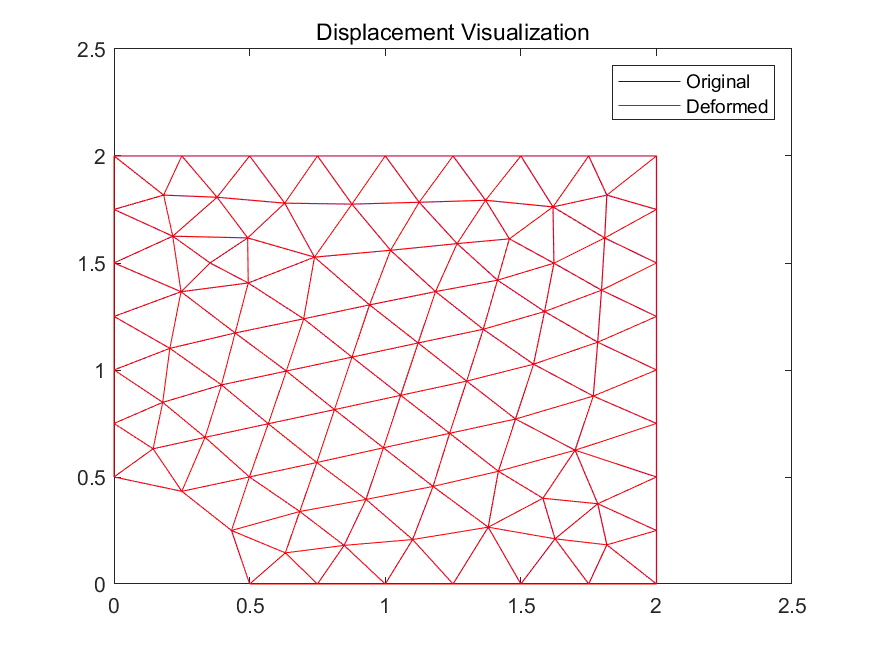
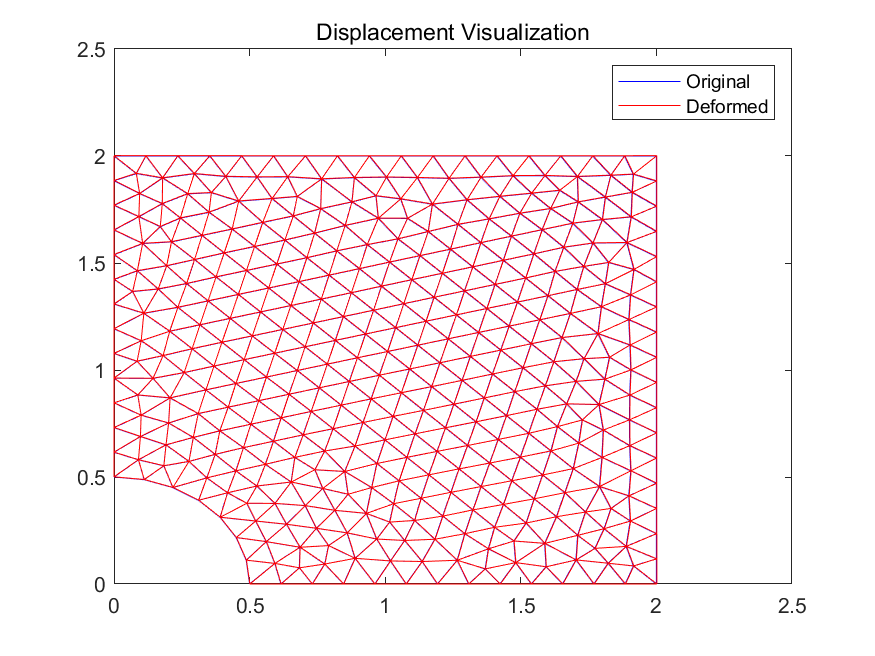
误差计算有问题，重新写函数

Changed region(s): [[0.1234, 0.2134, 0.7714, 0.8841]]

diff --git a/codes/Final project/computeError.m b/codes/Final project/computeError.m
@@ -4,39 +4,52 @@ function [L2Error, H1Error] = computeError(coords, ien, stressNumerical, stressA
 %ien: 单元节点连接关系矩阵
 %stressNumerical: 数值计算得到的应力
 %stressAnalytical: 解析解得到的应力
-
-    %初始化误差
+    % 初始化误差
     L2Error = 0;
     H1Error = 0;
-    totalArea = 0;
-
-    % 对每个单元进行循环
+    gradError = 0;    % 梯度误差项
+    totalArea = 0;    % 总面积
+    
+    % 遍历所有单元
     for e = 1:size(ien, 1)
-        % 获得单元节点
+        % 获取单元节点
         nodes = ien(e, :);
         elementCoords = coords(nodes, :);
-
-        % 获取数值解和解析解
-        sigmaNumerical = stressNumerical(e, :); % 单元数值应力
-        sigmaAnalytical = mean(stressAnalytical(nodes, :), 1); % 单元平均解析应力
         
-        % 计算单元雅可比行列式（用于面积计算）:
-        [~, detJ] = computeBMatrix(elementCoords);
-
-        % 计算L2误差： ||σ - σ_exact||²
-        diff = sigmaNumerical - sigmaAnalytical; 
-        L2Error = L2Error + detJ * (diff * diff'); % 积分过程
-
-        % 计算H1误差（梯度差）
-        gradDiff = diff; % 这里是简化处理,实际应该计算梯度差
-        H1Error = H1Error + detJ * (gradDiff * gradDiff'); % 每个单元对H1范数的贡献
-
-        % 累加单元面积
+        % 获取该单元的应力值
+        sigmaNum = stressNumerical(e, :);         % [σxx, σyy, τxy]
+        sigmaAnalytical = mean(stressAnalytical(nodes, :), 1);  % 取节点平均值作为解析值
+        
+        % 计算单元的B矩阵和雅可比行列式
+        [B, detJ] = computeBMatrix(elementCoords);
+        
+        % 计算应力差值用于L2误差
+        stressDiff = sigmaNum - sigmaAnalytical;
+        
+        % 计算该单元对L2误差的贡献
+        L2Error = L2Error + detJ * (stressDiff * stressDiff');
+        
+        % 计算应力梯度用于H1误差
+        % 计算数值解的梯度
+        [gradNumXX, gradNumYY, gradNumXY] = computeStressGradients(elementCoords, sigmaNum, B);
+        
+        % 计算解析解的梯度
+        [gradAnalXX, gradAnalYY, gradAnalXY] = computeAnalyticalStressGradients(...
+            elementCoords, sigmaAnalytical, nodes);
+        
+        % 计算梯度差值
+        gradDiffXX = gradNumXX - gradAnalXX;
+        gradDiffYY = gradNumYY - gradAnalYY;
+        gradDiffXY = gradNumXY - gradAnalXY;
+        
+        % 将梯度误差加入H1误差
+        gradError = gradError + detJ * (gradDiffXX.^2 + gradDiffYY.^2 + gradDiffXY.^2);
+        
+        % 累加面积
         totalArea = totalArea + detJ;
     end
-
-    % 最终归一化处理
+    
+    % 归一化误差
     L2Error = sqrt(L2Error / totalArea);
-    H1Error = sqrt(H1Error / totalArea);
+    H1Error = sqrt((L2Error^2 + gradError) / totalArea);
 end
-

diff --git a/codes/Final project/main.m b/codes/Final project/main.m
@@ -9,29 +9,34 @@ radius = 0.5;  %洞的半径
 sideLength = 4;  %平板的边长
 traction = 10e3;    %load traction
 
-%主文件的生成以及阅读msh文件
-meshSize = sideLength / (2^(i + 1)); % 减少mesh size
-generateGeoFile('geometry.geo', radius, sideLength, meshSize);
-system(sprintf('gmsh geometry.geo -2 -format msh2 -o geometry.msh -clmax %.2f', meshSize));
-[coords, ien] = readGmsh('geometry.msh');
-if isempty(coords) || isempty(ien)
-    error('Mesh data could not be loaded. Check the Gmsh file and path.');
-end
+    % 网格收敛性分析参数
+    numRefinements = 4; % 网格加密次数
+    L2Errors = zeros(numRefinements, 1);% 存储L2范数误差
+    H1Errors = zeros(numRefinements, 1);% 存储H1范数误差
+    elementSizes = zeros(numRefinements, 1);% 存储网格尺寸
 
-%现在就要解有限元问题了
+    for i = 1:numRefinements
+        %网格加密循环
+        meshSize = sideLength / (2^(i + 1)); % 网格尺寸逐次减半
+        %生成和读取网格
+        generateGeoFile('geometry.geo', radius, sideLength, meshSize);
+        system(sprintf('gmsh geometry.geo -2 -format msh2 -o geometry.msh -clmax %.2f', meshSize));
+        [coords, ien] = readGmsh('geometry.msh');
 
-%组装刚度矩阵
-K = assembleStiffness(coords, ien, E, nu, planeStress);
+        %求解有限元问题
+        K = assembleStiffness(coords, ien, E, nu, planeStress);
+        [dispBC, forceBC] = defineBoundaryConditions(coords, traction, radius, sideLength);
+        [K_mod, F] = applyBoundaryConditions(K, dispBC, forceBC);
+        U = K_mod \ F;
+        [stressNumerical, strainNumerical] = postProcess(coords, ien, U, E, nu, planeStress);
 
-%应用BC
-[dispBC, forceBC] = defineBoundaryConditions(coords, traction, radius, sideLength);
-[K_mod, F] = applyBoundaryConditions(K, dispBC, forceBC);
+        %计算误差
+        stressAnalytical = computeAnalyticalStress(coords, radius, traction);
+        [L2Errors(i), H1Errors(i)] = computeError(coords, ien, stressNumerical, stressAnalytical);
 
-%解位移
-U = K_mod \ F;
-
-%后处理
-[stressNumerical, strainNumerical] = postProcess(coords, ien, U, E, nu, planeStress);
+        %记录单元大小
+        elementSizes(i) = meshSize;
+    end
 
 % Visualization
 figure;
@@ -43,3 +48,18 @@ saveas(gcf, 'StressVisualization.png');
 figure;
 visualizeStrain(coords, ien, strainNumerical);
 saveas(gcf, 'StrainVisualization.png');
+
+disp(L2Errors);
+disp(H1Errors);
+
+%绘制收敛性曲线
+figure;
+loglog(elementSizes, L2Errors, '-o', 'DisplayName', 'L2 Error');
+hold on;
+loglog(elementSizes, H1Errors, '-o', 'DisplayName', 'H1 Error');
+xlabel('Element Size');
+ylabel('Error');
+title('Convergence Analysis');
+legend;
+grid on;
+saveas(gcf, 'Convergence Analysis.png');

diff --git a/codes/Final project/computeAnalyticalStressGradients.m b/codes/Final project/computeAnalyticalStressGradients.m
@@ -1,0 +1,36 @@
+function [gradXX, gradYY, gradXY] = computeAnalyticalStressGradients(coords, stress, nodes)
+    % 计算解析应力梯度
+    % 注意：这个函数需要根据具体问题的解析解来实现
+    
+    % 计算单元中心点
+    xc = mean(coords(:,1));
+    yc = mean(coords(:,2));
+    
+    % 转换为极坐标
+    r = sqrt(xc^2 + yc^2);
+    theta = atan2(yc, xc);
+    
+    % 问题参数
+    R = 0.5;      % 孔的半径
+    Tx = 10e3;    % 施加的拉力
+    
+    % 计算对r的偏导数
+    dSrrdr = -Tx/2 * (2*R^2/r^3) - Tx/2 * (-8*R^2/r^3 + 12*R^4/r^5) * cos(2*theta);
+    dSttdr = -Tx/2 * (R^2/r^3) - Tx/2 * (-12*R^4/r^5) * cos(2*theta);
+    dSrtdr = -Tx/2 * (-4*R^2/r^3 + 12*R^4/r^5) * sin(2*theta);
+    
+    % 计算对θ的偏导数
+    dSrrdt = Tx * (1 - 4*R^2/r^2 + 3*R^4/r^4) * (-sin(2*theta));
+    dSttdt = -Tx * (1 + 3*R^4/r^4) * sin(2*theta);
+    dSrtdt = -Tx * (1 + 2*R^2/r^2 - 3*R^4/r^4) * cos(2*theta);
+    
+    % 转换回笛卡尔坐标系
+    gradXX = [dSrrdr*cos(theta) - dSrtdr*sin(theta);
+              (dSrrdt - r*dSrtdr)*sin(theta)/r + (r*dSrrdr - dSrtdt)*cos(theta)/r];
+              
+    gradYY = [dSrrdr*sin(theta) + dSrtdr*cos(theta);
+              -(dSrrdt - r*dSrtdr)*cos(theta)/r + (r*dSrrdr - dSrtdt)*sin(theta)/r];
+              
+    gradXY = [dSrtdr;
+              dSrtdt/r];
+end

diff --git a/codes/Final project/computeStressGradients.m b/codes/Final project/computeStressGradients.m
@@ -1,0 +1,21 @@
+function [gradXX, gradYY, gradXY] = computeStressGradients(coords, stress, B)
+    % 使用形函数导数计算应力梯度
+    
+    % 计算单元尺寸
+    x21 = coords(2,1) - coords(1,1);
+    x31 = coords(3,1) - coords(1,1);
+    y21 = coords(2,2) - coords(1,2);
+    y31 = coords(3,2) - coords(1,2);
+    
+    % 计算单元面积
+    area = 0.5 * (x21 * y31 - x31 * y21);
+    
+    % 计算形函数导数
+    dNdx = [y31, -y21, y21-y31] / (2 * area);
+    dNdy = [-x31, x21, x31-x21] / (2 * area);
+    
+    % 计算各应力分量的梯度
+    gradXX = [dNdx * stress(1); dNdy * stress(1)];  % σxx的梯度
+    gradYY = [dNdx * stress(2); dNdy * stress(2)];  % σyy的梯度
+    gradXY = [dNdx * stress(3); dNdy * stress(3)];  % τxy的梯度
+end
